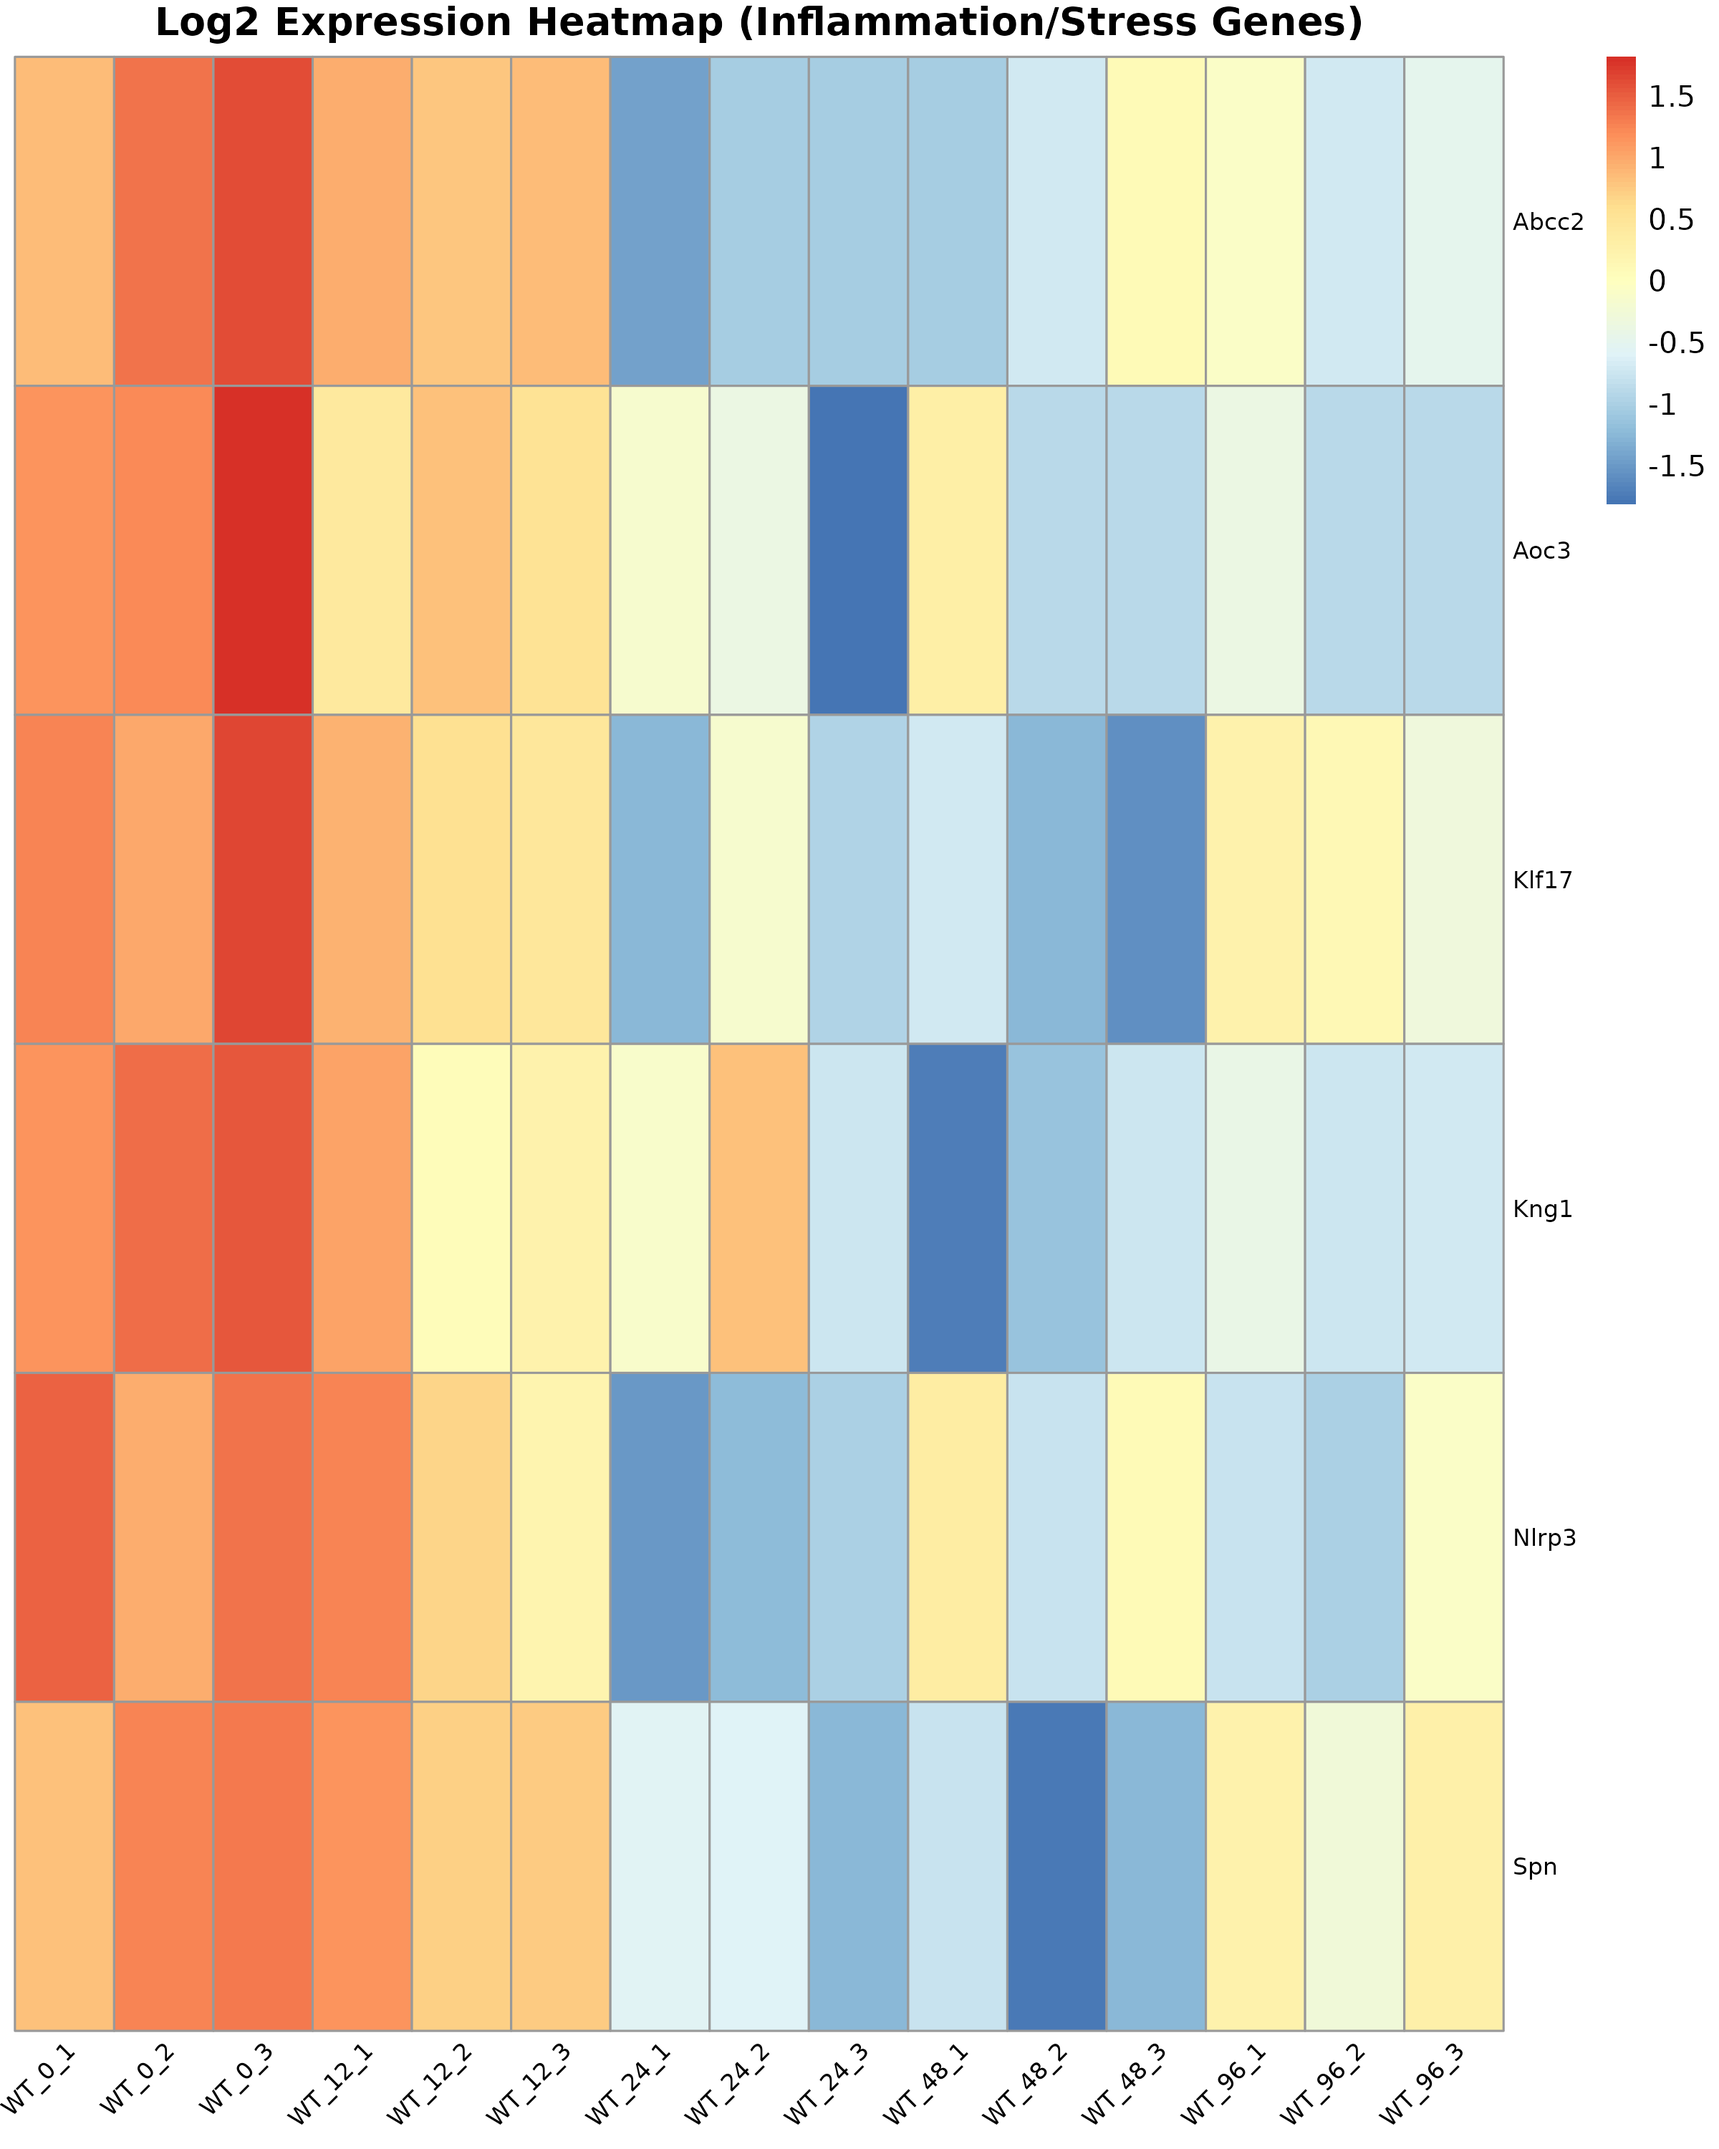
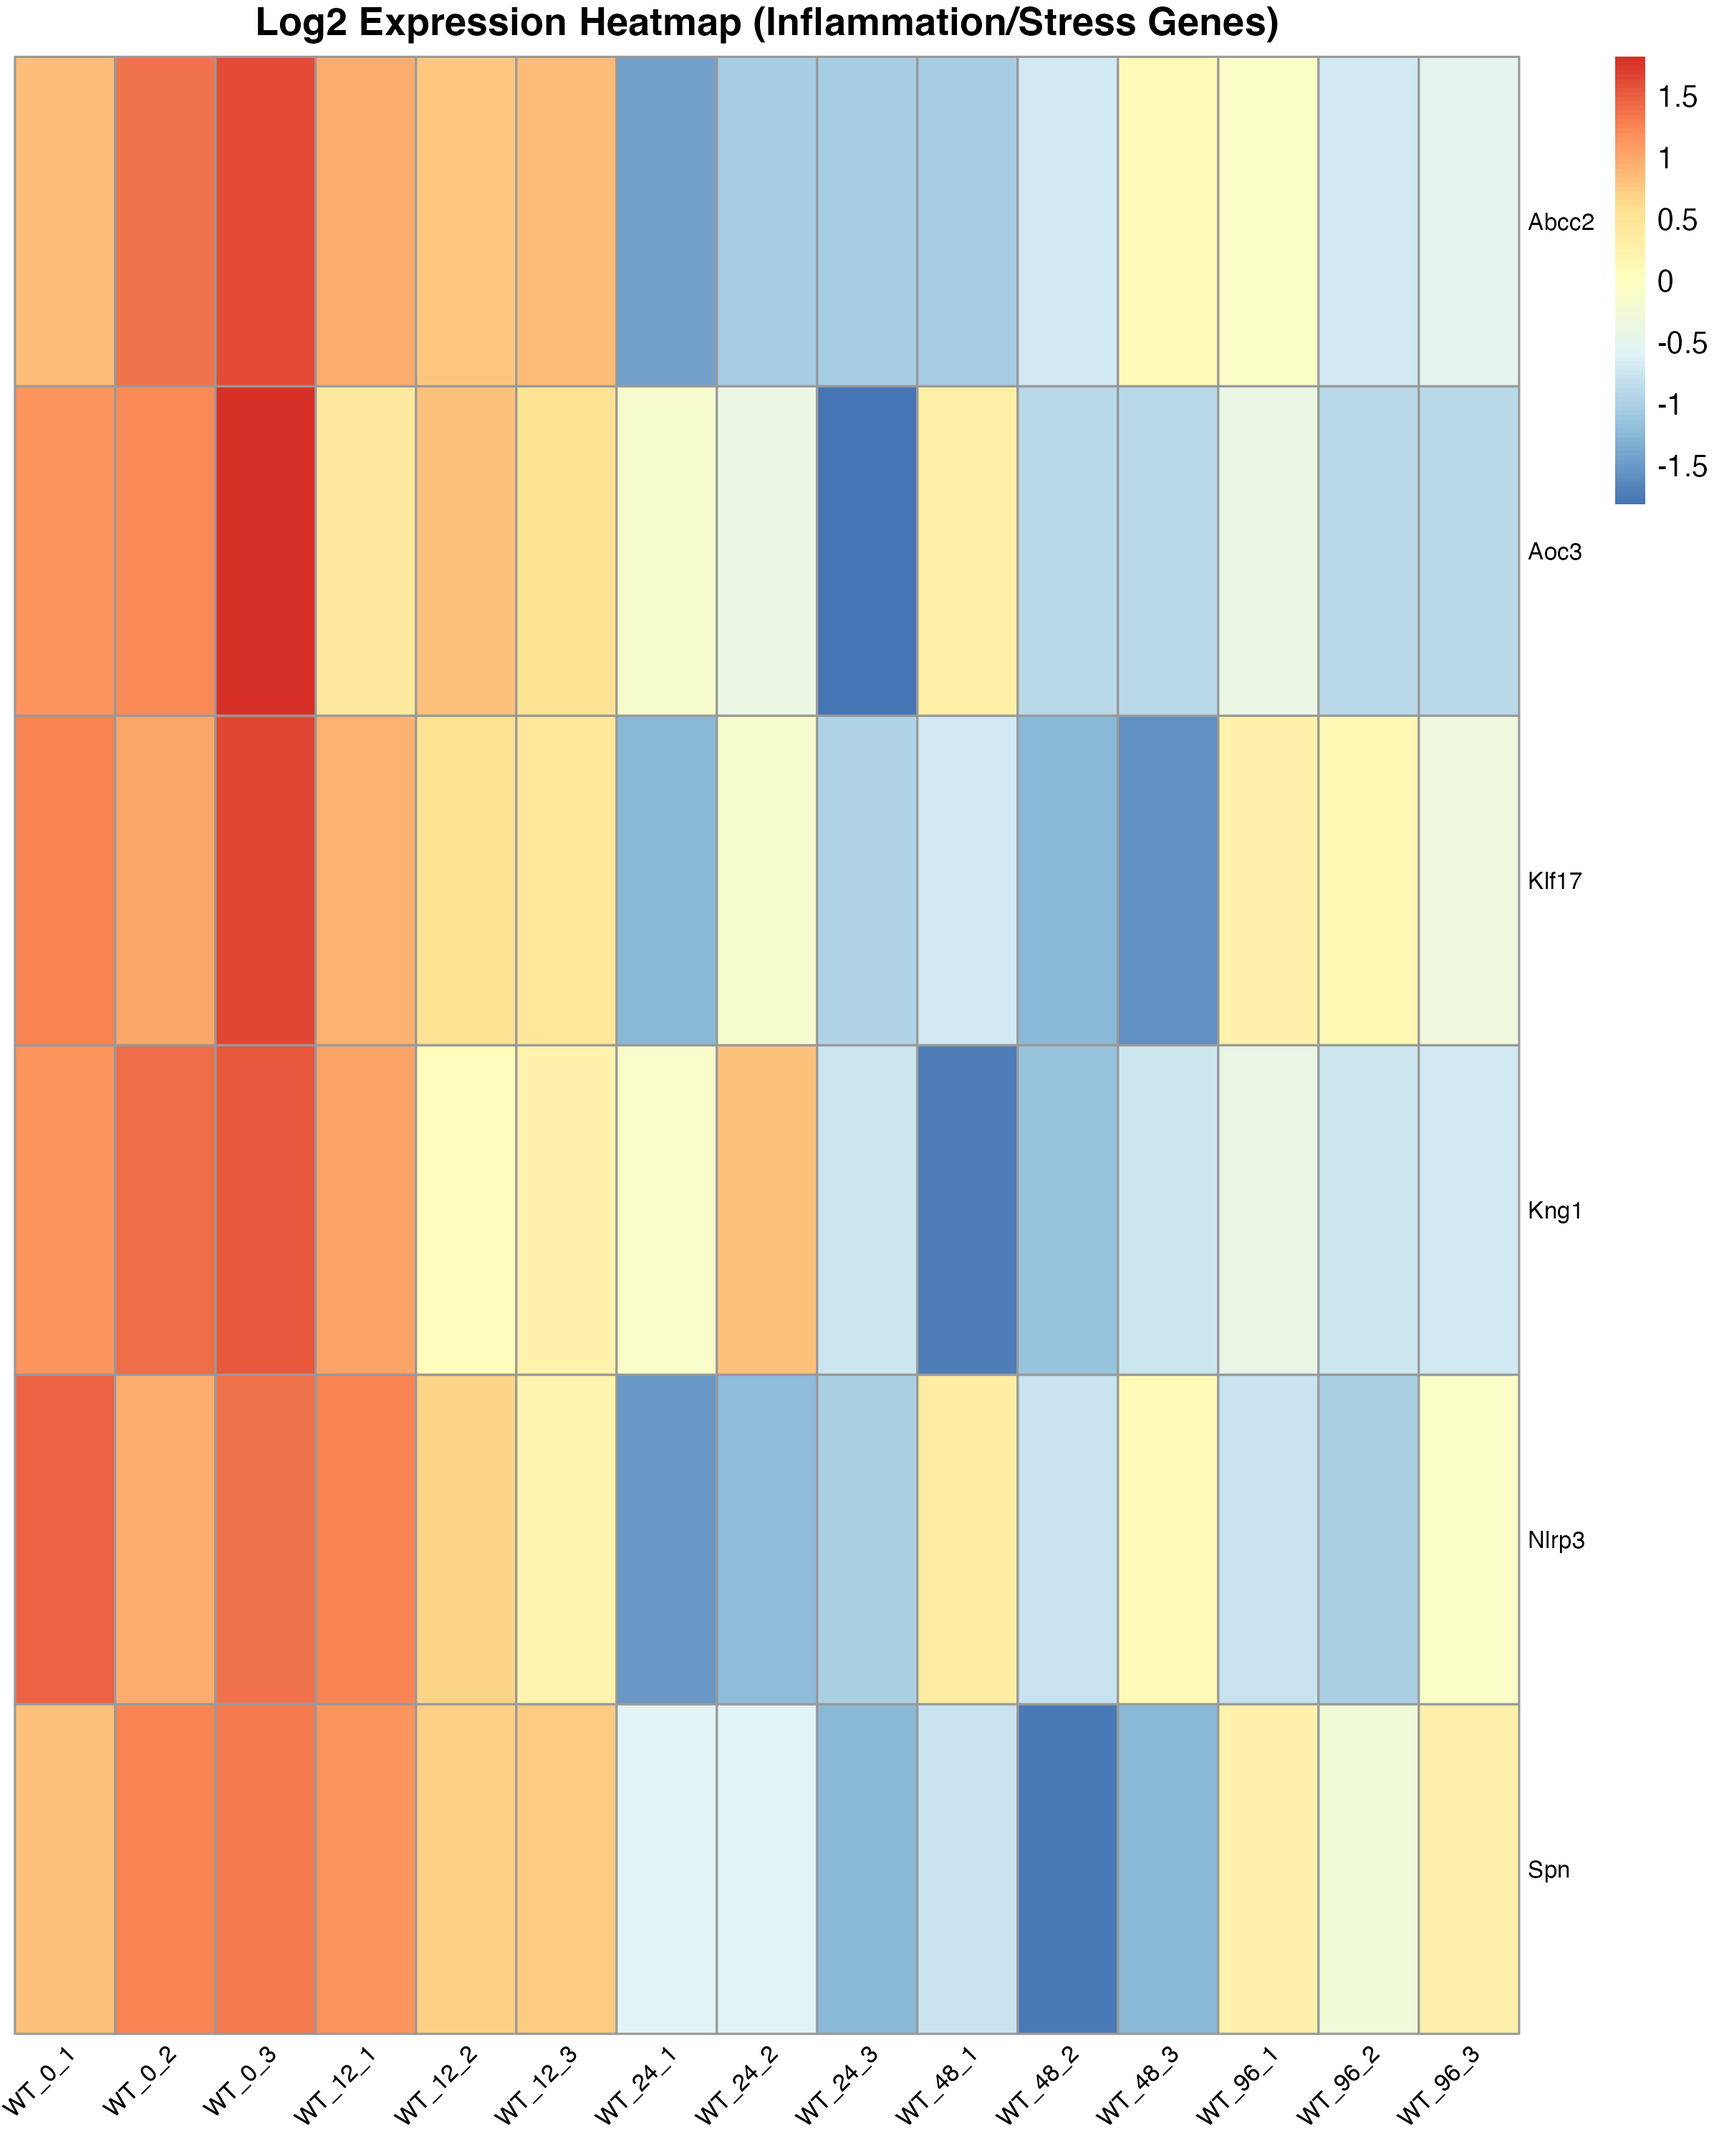
fixed typo preventing proper knit

diff --git a/project.md b/project.md
@@ -1,7 +1,7 @@
 ---
 title: "RNA-Seq Analysis"
 author: "Jason Hunter and Ryan Greer"
-date: "2025-04-02"
+date: "2025-04-03"
 output: 
   html_document:
     keep_md: yes
@@ -513,6 +513,8 @@ We observed a ~6.25-fold reduction of AOC3 expression from the 0 to 96 hours tim
 
 Li HY, Jiang YD, Chang TJ, Wei JN, Lin MS, Lin CH, Chiang FT, Shih SR, Hung CS, Hua CH, Smith DJ, Vanio J, Chuang LM. Serum vascular adhesion protein-1 predicts 10-year cardiovascular and cancer mortality in individuals with type 2 diabetes. Diabetes. 2011 Mar;60(3):993-9. doi: 10.2337/db10-0607. Epub 2011 Jan 31. PMID: 21282368; PMCID: PMC3046860.
 
+![AOC3_IGV](figures/AOC3_IGV.png)
+
 
 ``` r
 aoc3_results <- stat_results_all %>% filter(gene == "Aoc3")
@@ -531,7 +533,11 @@ print(aoc3_results)
 ## KLF17 Downregulation
 ![Klf17_expression_graph](figures/Klf17_expression.png)
 
-We saw that the expression of the KLF17 gene had a sharp reduction in expression, reaching its lowest at 48 hours(~5.75 fold reduction). Interestingly, the expression seemed to rebound over the next 48 hours
+We saw that the expression of the KLF17 gene had a sharp reduction in expression, reaching its lowest at 48 hours(~5.75 fold reduction). Interestingly, the expression seemed to rebound over the next 48 hours, so we aren't sure if this trend will continue, with expression returning to baseline. 
+
+KLF17 (Krueppel-like factor 17), is a transcription factor that is involved in the processes of stem cell differentiation, so reduced levels may influence the direction that these cells take, though we are not sure in what capacity.
+
+![KLF17_IGV](figures/klf17_IGV.png)
 
 
 ``` r
@@ -548,10 +554,139 @@ print(klf17_results)
 ## 4 Klf17    0 vs 96 0.03240713   0.4133333
 ```
 
+## ABCC2 Downregulation
+![ABCC2_expression_graph](figures/Abcc2_expression.png)
+ABCC2 (ATP-binding cassette subfamily C member 2) is a gene associated with drug resistance, and plays a role in optimal functioning of the kidney and liver. It is involved in the transportation of foreign substances, toxins, and drugs inside the body. With this role, the significant, 4-fold reduction we see in ABCC2 expression after exposure to doxycycline may lead to increased inflammation, since ABCC2 is involved in the transportation of the toxic and inflammatory substances out of the system.
+
+![ABCC2_IGV](figures/Abcc2_IGV.png)
+
+
+``` r
+abcc2_results <- stat_results_all %>% filter(gene == "Abcc2")
+
+print(abcc2_results)
+```
+
+```
+##    gene comparison    p_value fold_change
+## 1 Abcc2    0 vs 12 0.20783297    0.703125
+## 2 Abcc2    0 vs 24 0.03204837    0.125000
+## 3 Abcc2    0 vs 48 0.02771524    0.234375
+## 4 Abcc2    0 vs 96 0.03736314    0.250000
+```
+
+## NLRP3 Downregulation
+![NLRP3_expression_graph](figures/Nlrp3_expression.png)
+NLRP3 (NLR family pyrin domain containing 3) is a protein heavily involved in regulating immune inflammatory response, through its role in the inflammasome, a protein complex involved in the detection of cell damage and stress. Since NLRP3 activates inflammatory signaling, lower levels are likely to contribute to the inflammation-lowering properties that doxycycline is famous for.
+
+We observed a ~4.5-fold reduction in NLRP3 levels from the 0 to 96 hour timepoints, so we believe this gene is one of the key players in doxycycline's effects on stress/inflammatory response.
+
+![NLRP3_IGV](figures/Nlrp3_IGV.png)
+
+``` r
+nlrp3_results <- stat_results_all %>% filter(gene == "Nlrp3")
+
+print(nlrp3_results)
+```
+
+```
+##    gene comparison    p_value fold_change
+## 1 Nlrp3    0 vs 12 0.18873378   0.6732673
+## 2 Nlrp3    0 vs 24 0.01550864   0.1188119
+## 3 Nlrp3    0 vs 48 0.01306275   0.3465347
+## 4 Nlrp3    0 vs 96 0.01043968   0.2178218
+```
+
+## KNG1 Downregulation
+![KNG1_expression_graph](figures/Kng1_expression.png)
+KNG1 (kininogen 1) is a protein that is directly involved in the production of bradykinin, in the kallikrein-kinin system. Bradykinin is often called an inflammatory mediator, for its complex role in inflammatory systems. Through different mechanisms, bradykinin can cause both vasoconstriction and vasoconstriction, acting as a sort of regulator.
+With this, the effect of ~5-fold reduction in KNG1 expressions is unclear, however it is certain that doxycycline is having an impact on this system.
+
+![KNG1_IGV](figures/Kng1_IGV.png)
+
+
+``` r
+kng1_results <- stat_results_all %>% filter(gene == "Kng1")
+
+print(kng1_results)
+```
+
+```
+##   gene comparison     p_value fold_change
+## 1 Kng1    0 vs 12 0.041516389   0.5158025
+## 2 Kng1    0 vs 24 0.029311272   0.3803164
+## 3 Kng1    0 vs 48 0.004320424   0.1198990
+## 4 Kng1    0 vs 96 0.008713440   0.2002428
+```
+
+## SPN Downregulation
+![SPN_expression_graph](figures/Spn_expression.png)
+Spn (Sialophorin) is a protein on the surface of many cells, particularly immune cells, including T cells, monocytes, and granulocytes. It is involved in immune signaling and inflammatory regulation.
+
+A reduction in Spn expresssion may actually be pro-inflammatory because the protein regulates the behavior of immune cells, so lower levels can throw this system out of balance. Additionally, lower Spn levels are correlated with reduced immune response, since mounting a proper response is reliant on signals from Spn.
+
+While we noticed a steep decrease in the expression initially(almost 6-fold reduction within 48 hours), it seemed to recover significantly by the time we recorded the 96 hour timepoint, down to a little over a 2-fold reduction. Again, we are not sure if this trend will continue, or if these expression changes will stick around long beyond the exposure to doxycycline.
+
+![SPN_IGV](figures/Spn_IGV.png)
+
+``` r
+spn_results <- stat_results_all %>% filter(gene == "Spn")
+
+print(spn_results)
+```
+
+```
+##   gene comparison    p_value fold_change
+## 1  Spn    0 vs 12 0.25598317   0.8093385
+## 2  Spn    0 vs 24 0.01452677   0.2354086
+## 3  Spn    0 vs 48 0.01212807   0.1692607
+## 4  Spn    0 vs 96 0.02373469   0.4494163
+```
+
 ## Biological Interpretation of Modules
 
-### Module 1: Inflammatory/Stress Response
+### Inflammatory/Stress Response
 Genes: *Aoc3, Abcc2, Nlrp3, Kng1, Klf17, Spn*
+
+## InflammationHeatmap Visualization
+
+``` r
+# Define the genes to include
+genes_of_interest <- c("Aoc3", "Abcc2", "Nlrp3", "Kng1", "Klf17", "Spn")
+
+# Filter the dataset for the genes of interest
+infl_heatmap_matrix <- data_cleaned %>%
+  filter(gene_name %in% genes_of_interest) %>%
+  distinct(gene_name, .keep_all = TRUE) %>%
+  select(gene_name, starts_with("WT")) %>%
+  column_to_rownames("gene_name") %>%
+  mutate(across(everything(), as.numeric)) %>%
+  replace(is.na(.), 0) %>%  # Replace NAs with zeros
+  as.matrix()
+
+infl_heatmap_matrix[!is.finite(infl_heatmap_matrix)] <- 0
+
+# Log2 transformation
+infl_heatmap_matrix_log <- log2(infl_heatmap_matrix + 1)
+
+infl_unclustered_heatmap <- pheatmap(
+   infl_heatmap_matrix_log,
+   cluster_rows = FALSE,
+   cluster_cols = FALSE,
+   scale = "row",
+   fontsize = 10,
+   fontsize_row = 8,
+   fontsize_col = 8,
+   angle_col = 45,
+   main = "Log2 Expression Heatmap (Inflammation/Stress Genes)")
+```
+
+![](project_files/figure-html/imflammatory-heatmap-visualization-1.png)<!-- -->
+
+``` r
+ggsave(filename = "figures/Infl_heatmap.png", plot = infl_unclustered_heatmap, width = 8, height = 10)
+```
+![INFL_Heatmapo](figures/Infl_heatmap.png)
 
 ## Conclusions
 Our analyses reveal distinct biological modules triggered by doxycycline exposure:
